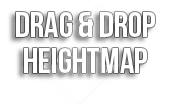
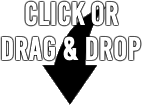
changed attention button and added cursor styles

diff --git a/index.html b/index.html
@@ -25,11 +25,12 @@
 <html lang="en" dir="ltr" xmlns:fb="http://ogp.me/ns/fb#">
 
 <head>
-	<title>NormalMap-Online</title>
-	<link rel="icon" type="image/png" href="images/favicon.png" />
-	<link type="text/css" rel="stylesheet" href="http://fonts.googleapis.com/css?family=Open+Sans:700"></link>
-	<link type="text/css" rel="stylesheet" href="./style.css"></link>
 	<meta charset="utf-8">
+
+	<meta http-equiv="Cache-Control" content="no-cache, no-store, must-revalidate" />
+	<meta http-equiv="Pragma" content="no-cache" />
+	<meta http-equiv="Expires" content="0" />
+	<meta http-equiv="reply-to" content="petry_christian@web.de">
 	<meta name="description" content="Online NormalMap Generator FREE! Create a Normalmap directly inside your browser! No Uploads required, completely client-based">
 	<meta name="author" content="Christian Petry">
 	<meta name="language" CONTENT="english">
@@ -37,7 +38,12 @@
 	<meta name="date" content="2014-06-28">
 	<meta name="page-topic" content="Dienstleistung">
 	<meta name="robots" content="index,follow">
-	<meta http-equiv="reply-to" content="petry_christian@web.de">
+
+	<title>NormalMap-Online</title>
+	<link rel="icon" type="image/png" href="images/favicon.png" />
+	<link type="text/css" rel="stylesheet" href="http://fonts.googleapis.com/css?family=Open+Sans:700"></link>
+	<link type="text/css" rel="stylesheet" href="./style.css"></link>
+	
 </head>
 
 	
@@ -107,13 +113,12 @@
 		<!-- Drop box %D -->
 		<div class="column" id="column_height" style="float:left;">
 			<div class="column_top">
-				<input id="select_file_height" type="file" accept="image/*, .tga" onpropertychange="handleFileSelect()" style="position:absolute;visibility:hidden;"/>
-				<input type="button" style="margin-top:30px" id="browseButton" value="Select image..." onclick="select_file_height.click()">
-				or
-				<a style="top: 80px; left: -180px; position: relative; overflow:hidden;" class="various" href="#heightmap_help"><img src="images/help.png" /></a>
-				<img src="images/drag_drop.png" style="padding-top:30px"/>
-				
-				<a style="top: -18px; right: -44px; position: relative; overflow:hidden;" class="various" href="#photo_help"><img src="images/attention.png" /></a>
+				<!--<input id="select_file_height" type="file" accept="image/*, .tga" onpropertychange="handleFileSelect()" style="position:absolute;visibility:hidden;"/>
+				<input type="button" style="margin-top:30px" id="browseButton" value="Select image...">
+				or-->
+				<img src="images/drag_drop.png" style="padding-top:80px"/>
+				<a style="top: -18px; right: -10px; position: relative; overflow:hidden;" class="various" href="#heightmap_help"><img src="images/help.png" /></a>
+				<a style="top: -18px; right: -40px; position: relative; overflow:hidden;" class="various" href="#photo_help"><img src="images/attention.png" /></a>
 			</div>
 			
 			<!-- DESCRIPTION HEIGHT MAP -->
@@ -190,7 +195,8 @@
 				
 			</div>			
 			<div class="view" id="height_map" style="display: inline-block;float: left;">
-				<canvas id="height_canvas"></canvas>
+				<input id="select_file_height" type="file" accept="image/*, .tga" onpropertychange="handleFileSelect()" style="position:absolute;visibility:hidden;"/>
+				<canvas id="height_canvas" onclick="select_file_height.click()" onmouseover="" style="cursor: pointer;"></canvas>
 			</div>
 			<div class="view" id="pictures_map" style="display: inline-block;float: left; display:none;">
 				<input id="select_file_above" type="file" accept="image/*, .tga" onpropertychange="handleFileSelect()" style="position:absolute;visibility:hidden;"/>
@@ -203,19 +209,19 @@
 							
 						</div>
 						<div class="pictures_view_cell drop_cell" id="picture_below_drop">
-							<canvas id="picture_canvas_below" style="width:100%; height: 100%" onclick="select_file_below.click()"></canvas>
+							<canvas id="picture_canvas_below" style="width:100%; height: 100%; cursor: pointer;" onclick="select_file_below.click()" onmouseover=""></canvas>
 						</div>
 					</div>
 					<div class="pictures_view_row">
 						<div class="pictures_view_cell drop_cell" id="picture_right_drop">
-							<canvas id="picture_canvas_right" style="width:100%; height: 100%" onclick="select_file_right.click()"></canvas>
+							<canvas id="picture_canvas_right" style="width:100%; height: 100%; cursor: pointer;" onclick="select_file_right.click()" onmouseover=""></canvas>
 						</div>
 						<div class="pictures_view_cell">
 							
 						</div>
 						
 						<div class="pictures_view_cell drop_cell" id="picture_left_drop">
-							<canvas id="picture_canvas_left" style="width:100%; height: 100%" onclick="select_file_left.click()"></canvas>
+							<canvas id="picture_canvas_left" style="width:100%; height: 100%; cursor: pointer;" onclick="select_file_left.click()" onmouseover=""></canvas>
 						</div>
 						
 					</div>
@@ -224,7 +230,7 @@
 							
 						</div>
 						<div class="pictures_view_cell drop_cell" id="picture_above_drop">
-							<canvas id="picture_canvas_above" style="width:100%; height: 100%" onclick="select_file_above.click()"></canvas>
+							<canvas id="picture_canvas_above" style="width:100%; height: 100%; cursor: pointer;" onclick="select_file_above.click()" onmouseover=""></canvas>
 						</div>
 					</div>
 				</div>

diff --git a/style.css b/style.css
@@ -162,6 +162,7 @@ input.tab_button{
 	-webkit-border-radius: 6px;
 	border-radius: 6px;
 	border: 2px solid #000000;
+	cursor: pointer;
 }
 
 input.tab_button:disabled{
@@ -181,6 +182,7 @@ input.tab_button:disabled{
 	-webkit-border-radius: 6px;
 	border-radius: 6px;
 	border: 2px solid #000000;
+	cursor: default;
 }
 
 div.texture_container{
